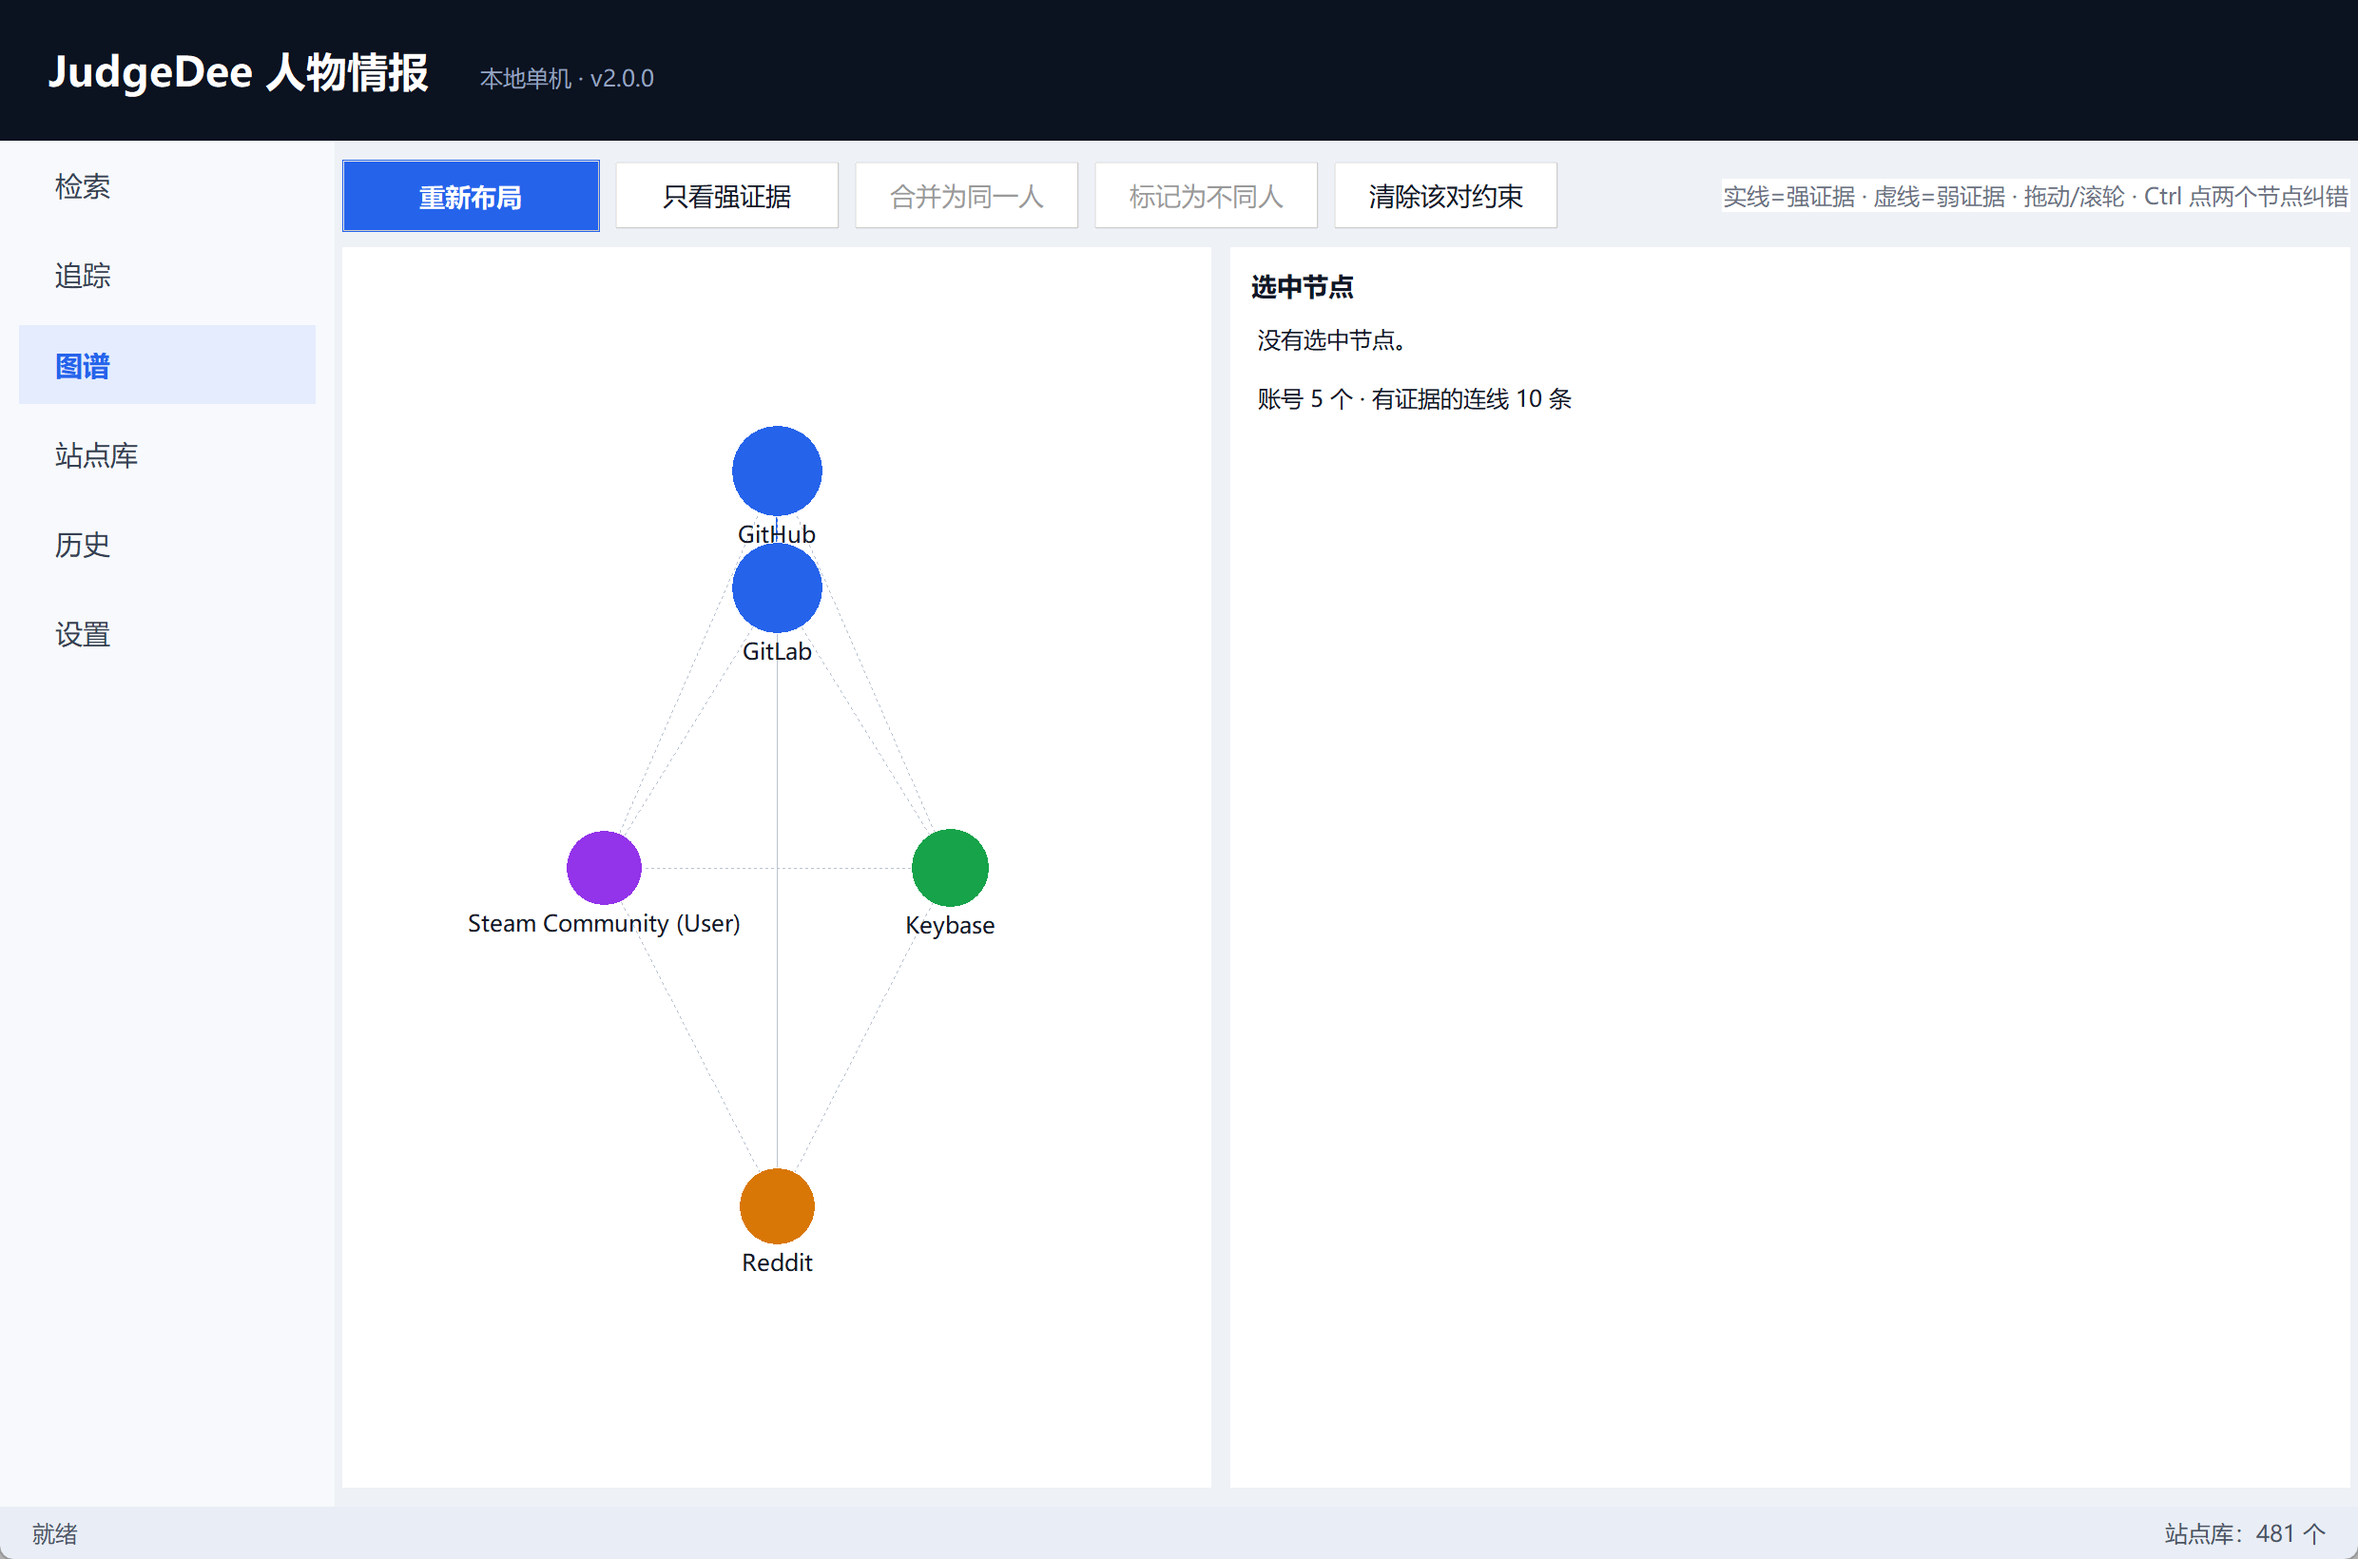
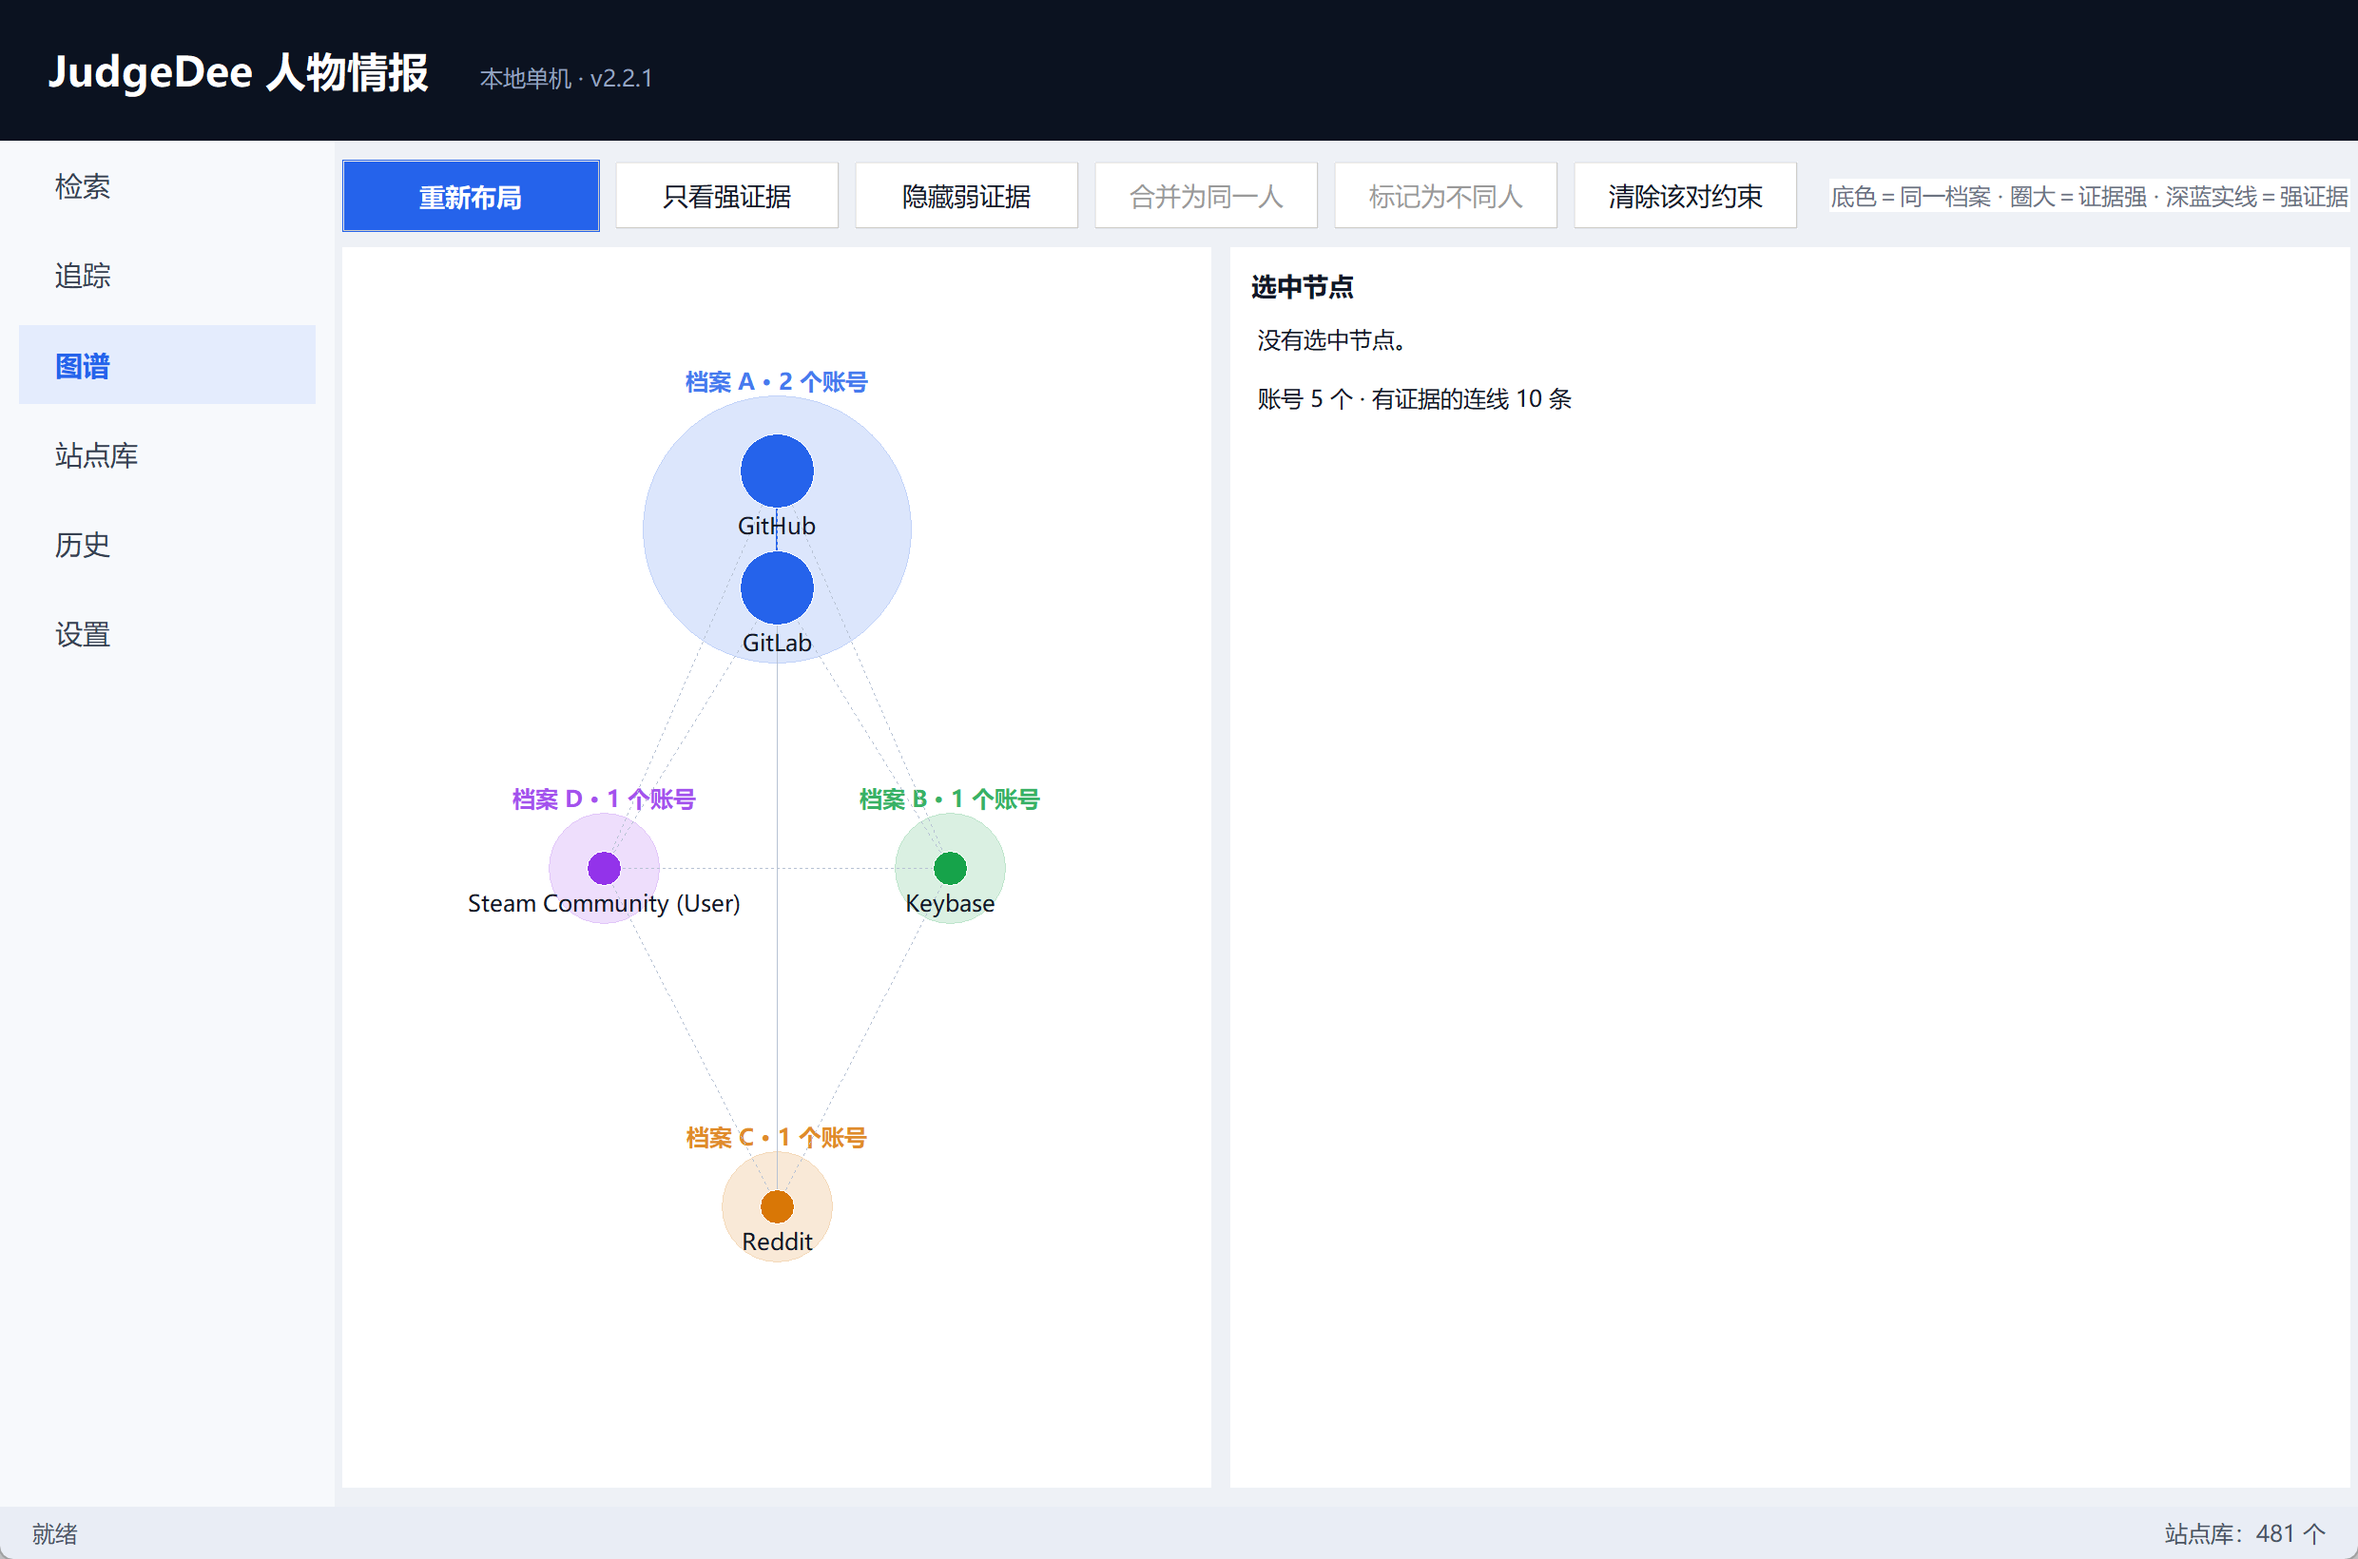
v2.2.1: 图谱分档显示（档案底色/证据强度定大小/三级连线）

diff --git a/judgedee/ui/page_graph.py b/judgedee/ui/page_graph.py
@@ -14,8 +14,21 @@ import webbrowser
 from tkinter import messagebox, ttk
 
 from ..graph import Edge, account_key, build_edges, cluster_layout, degrees, layout, node_radius
-from ..identity import Account, Cluster, score_pair
+from ..identity import REVIEW_THRESHOLD, Account, Cluster, score_pair
 from . import theme
+
+
+def _tint(color: str, factor: float) -> str:
+    """把调色板颜色往白色方向调，factor 越小越淡（0=白，1=原色）。"""
+    color = color.lstrip("#")
+    if len(color) != 6:
+        return "#eef1f6"
+    r, g, b = (int(color[i : i + 2], 16) for i in (0, 2, 4))
+    out = []
+    for value in (r, g, b):
+        mixed = int(round(255 - (255 - value) * factor))
+        out.append(max(0, min(255, mixed)))
+    return "#%02x%02x%02x" % tuple(out)
 
 PALETTE = [
     "#2563eb",
@@ -46,6 +59,8 @@ class GraphPage(ttk.Frame):
         self.color: dict[str, str] = {}
         self.selected: list[str] = []
         self.strong_only = False
+        self.show_weak = True
+        self.cluster_of: dict[str, Cluster] = {}
         self.zoom = 1.0
         self.ox = 0.0
         self.oy = 0.0
@@ -67,6 +82,10 @@ class GraphPage(ttk.Frame):
             bar, text="只看强证据", style="Ghost.TButton", command=self.toggle_strong
         )
         self.btn_strong.pack(side="left", padx=px(8))
+        self.btn_weak = ttk.Button(
+            bar, text="隐藏弱证据", style="Ghost.TButton", command=self.toggle_weak
+        )
+        self.btn_weak.pack(side="left", padx=(0, px(8)))
         self.btn_merge = ttk.Button(
             bar, text="合并为同一人", style="Ghost.TButton", command=self.mark_same, state="disabled"
         )
@@ -82,7 +101,7 @@ class GraphPage(ttk.Frame):
 
         self.lbl_hint = ttk.Label(
             bar,
-            text="实线=强证据 · 虚线=弱证据 · 拖动/滚轮 · Ctrl 点两个节点纠错",
+            text="底色＝同一档案 · 圈大＝证据强 · 深蓝实线＝强证据",
             style="Hint.TLabel",
         )
         self.lbl_hint.pack(side="right")
@@ -154,10 +173,29 @@ class GraphPage(ttk.Frame):
         self.pos = {key: (raw[key][0] / width, raw[key][1] / height) for key in keys if key in raw}
         degree = degrees(keys, self.edges)
         max_degree = max(degree.values()) if degree else 0.0
-        self.radius = {
-            key: node_radius(degree[key], max_degree, base=self.px(11), span=self.px(13))
-            for key in keys
-        }
+        _ = max_degree  # 度数不再决定大小，保留统计以便后续扩展
+
+        self.cluster_of = {}
+        for cluster in self.clusters:
+            for account in cluster.accounts:
+                self.cluster_of[account_key(account)] = cluster
+
+        base = self.px(9)
+        span = self.px(11)
+        self.radius = {}
+        for key in keys:
+            cluster = self.cluster_of.get(key)
+            if cluster is None:
+                self.radius[key] = base
+                continue
+            conf = 0.0
+            try:
+                conf = max(0.0, min(1.0, float(getattr(cluster, "score", 0.0) or 0.0)))
+            except (TypeError, ValueError):
+                conf = 0.0
+            if len(cluster.accounts) == 1:
+                conf = min(conf, 0.5)
+            self.radius[key] = base + span * conf
         self.color = {}
         for index, cluster in enumerate(self.clusters):
             for account in cluster.accounts:
@@ -181,14 +219,53 @@ class GraphPage(ttk.Frame):
             y = margin_y + point[1] * (height - 2 * margin_y)
             return x * zoom + ox, y * zoom + oy
 
+        # 先铺档案底色：同一档案的点被一块浅色圆托住，一眼看出「几团人」
+        for index, cluster in enumerate(self.clusters):
+            points = [
+                to_screen(self.pos[account_key(account)])
+                for account in cluster.accounts
+                if account_key(account) in self.pos
+            ]
+            if not points:
+                continue
+            cx = sum(p[0] for p in points) / len(points)
+            cy = sum(p[1] for p in points) / len(points)
+            spread = max((((p[0] - cx) ** 2 + (p[1] - cy) ** 2) ** 0.5 for p in points), default=0.0)
+            radius = spread + max(
+                (self.radius.get(account_key(a), self.px(9)) for a in cluster.accounts), default=0.0
+            ) * zoom + self.px(20) * zoom
+            tint = _tint(PALETTE[index % len(PALETTE)], 0.16)
+            canvas.create_oval(
+                cx - radius,
+                cy - radius,
+                cx + radius,
+                cy + radius,
+                fill=tint,
+                outline=_tint(PALETTE[index % len(PALETTE)], 0.28),
+                width=1,
+            )
+            canvas.create_text(
+                cx,
+                cy - radius - self.px(8) * zoom,
+                text=f"档案 {cluster.label} · {len(cluster.accounts)} 个账号",
+                fill=_tint(PALETTE[index % len(PALETTE)], 0.85),
+                font=(theme.FONT, 9, "bold"),
+            )
+
         for edge in self.edges:
             if edge.a not in self.pos or edge.b not in self.pos:
+                continue
+            if not self.show_weak and not edge.strong and edge.score < REVIEW_THRESHOLD:
                 continue
             x1, y1 = to_screen(self.pos[edge.a])
             x2, y2 = to_screen(self.pos[edge.b])
             if edge.strong:
                 canvas.create_line(
-                    x1, y1, x2, y2, fill=theme.ACCENT, width=max(1, int(2.2 * zoom)), smooth=True
+                    x1, y1, x2, y2, fill=theme.ACCENT, width=max(1, int(2.4 * zoom)), smooth=True
+                )
+            elif edge.score >= REVIEW_THRESHOLD:
+                canvas.create_line(
+                    x1, y1, x2, y2, fill="#8fa0b8", width=max(1, int(1.5 * zoom)), smooth=True
                 )
             else:
                 canvas.create_line(
@@ -196,9 +273,9 @@ class GraphPage(ttk.Frame):
                     y1,
                     x2,
                     y2,
-                    fill="#b9c2d0",
+                    fill="#b7c2d4",
                     width=max(1, int(1.2 * zoom)),
-                    dash=(4, 3),
+                    dash=(3, 4),
                 )
 
         for account in self.accounts:
@@ -326,6 +403,11 @@ class GraphPage(ttk.Frame):
         self.strong_only = not self.strong_only
         self.btn_strong.configure(text="显示全部证据" if self.strong_only else "只看强证据")
         self.refresh()
+
+    def toggle_weak(self) -> None:
+        self.show_weak = not self.show_weak
+        self.btn_weak.configure(text="显示弱证据" if not self.show_weak else "隐藏弱证据")
+        self._draw()
 
     # ---------- 纠错 ----------
     def _update_buttons(self) -> None:

diff --git a/judgedee/__init__.py b/judgedee/__init__.py
@@ -4,7 +4,7 @@
 查 IP 与手机号归属地。站点表、判定规则、图标全部随程序分发，运行时不依赖任何在线服务。
 """
 
-__version__ = "2.2.0"
+__version__ = "2.2.1"
 __app_name__ = "JudgeDee"
 __app_name_zh__ = "JudgeDee 人物情报"
 

diff --git a/CHANGELOG.md b/CHANGELOG.md
@@ -1,5 +1,15 @@
 # 更新日志
 
+## v2.2.1 (2026-11-07)
+
+图谱看得清了：
+
+- 每个档案外面加一块浅色圆底，上面写「档案 A · 2 个账号」——同一伙人一眼能看出来。
+- 圆点大小改成按「这组账号的证据强度」算，不再是连线数量；孤立账号给小圆，证据硬的组给大圆。
+- 连线分三档：深蓝实线（强证据）、灰实线（待确认 0.45–0.62）、浅虚线（弱证据），
+  另加「隐藏弱证据」开关，一眼只留结论，需要细节再打开。
+- 工具条的说明文字改成这套视觉语言，看图不用再猜。
+
 ## v2.2.0 (2026-11-07)
 
 线索卡：把「账号 → 主页 → 联系方式 → 服务器」串成一条线：

diff --git a/README.md b/README.md
@@ -76,8 +76,9 @@ Python 3.9+（推荐 3.11），必装只有 `requests`。
 
 ### 图谱
 
-彩色圆点 = 账号，颜色 = 档案；实线强证据，虚线弱证据。可拖动节点、滚轮缩放、右键平移，
-双击打开主页，右边列出选中节点的主页信息与两两证据。
+彩色圆点 = 账号，圆点下面那块浅色圆＝同一个档案（上方标着「档案 A · 2 个账号」），
+圆越大说明这组账号的证据越硬。连线分三档：深蓝实线是强证据，灰实线是待确认，浅虚线是弱证据。
+可拖动节点、滚轮缩放、右键平移，双击打开主页，右边列出选中节点的主页信息与两两证据。
 
 ![图谱页](docs/shot-graph.png)
 
